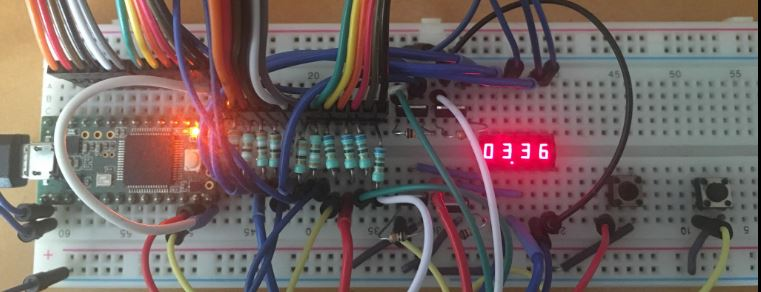
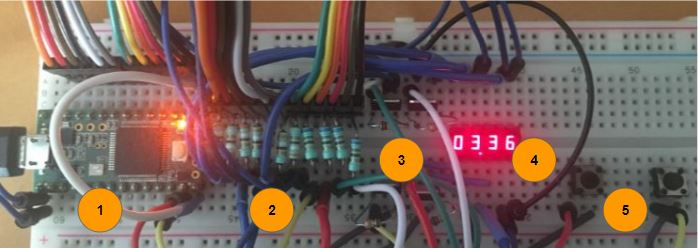
Updated readme

diff --git a/README.MD b/README.MD
@@ -11,7 +11,7 @@ The following minimum features are required:
 - A bubble display that shows elapsed time in increments of 1/100 s (10 ms).
 
 The following conditions must be satisfied:
-- Timer precision, 10 ms (1/100 s) max deviation within a 10 s timespan.
+- Timer precision, 10 ms (1/100 s) max deviation within a 10 s timespan. For this requirement to be satisfied with 4 available digit slots on the bubble display, the maximum time elapsed to be displayed is 99.99 s.
 - Proof of button debouncing functionality.
 - No delay() function used.
 - Use of external interrupts.
@@ -25,31 +25,117 @@ The bubble display stop watch circuit schematic is shown below:
 
 ![Bubble display stop watch circuit schematic.](media/circuit_schematic.jpg)
 
+The Teensy 3.2's digital pins are noted to have an output of 3.3 V and 10 mA (PJRC, n.d.).
 
 A brief explanation of the circuit design follows:
 - The momentary push buttons (Start/Stop and Reset) activate softare interrupts by pulling microcontroller pins 10 and 11 to ground. These pins are internally pulled up to prevent them from floating.
-- Resistors R1 to R8 limit the current drawn through each of the 8 anode display segments on the bubble display, protecting the microcontroller.
-- Microntroller pins 16 to 23 drive which anode segment lights up on the QDSP-6064 bubble display (A to DP). These pins determine what number is displayed.
+- Resistors R1 to R8 limit the current drawn through each of the 8 anode display segments on the bubble display. Each anode segment has a max average current of 5 mA, with a typical voltage drop of 1.6 V.
+>(3.3 V- 1.6 V) / 390 ohms = 4.36 mA, satisfying the Teensy's 10 mA and bubble display's 5 mA current limit.
+- Microntroller pins 16 to 23 drive which anode segment lights up on the QDSP-6064 bubble display (A to DP). These pins determine what number is displayed. A bubble display pinout guide is illustrated below (Malinowo, 2015):
+![Bubble display pinout.](media/bubble_display_pinout.jpg)
+
 - Microcontroller pins 12 to 15 drive enhancement LU8743 N-FETS Q1 to Q4 to activate the 4 bubble digit display slots sequentially. This is achieved by sending a voltage to the gate of the N-FET, causing the the N-FET to conduct current from the corresponding digit slot's common cathode. This completes the circuit with the anode segments by sinking the current to ground, displaying a number at a particular digit slot.
-- N-FETS are utilized to protect excessive current sinking on the microcontroller, which can be the case when all anode segments are high (such as for the number '8.'). Each anode segment draws about 5 mA - having all 8 activated will require a current of 40 mA to be sunk which cannot be accomodated by the microcontroller.
-- Resistors R9 to R12 lmit the current drawn from microcontroller pins 12 to 15 as voltage builds up on the N-FET gate.
+>The N-FET gates' voltages are determined by the voltage divider network formed by the 660 ohm (R9 to R12) and 10k ohm (R13 to R16) resistors. The N-FET has a forward diode voltage drop of 1 V and typical gate threshold voltage of 1.9 V (International Rectifier, n.d.). The gate voltage is determined to be:
+(10k ohm * (3.3 V - 1 V)) /(10k ohm + 660 ohm) = 2.06 V. Just slightly above the typical threshold value and less than the maximum value of 2.35 V (International Rectifier, n.d.).
+- N-FETS are utilized to protect excessive current sinking into the microcontroller by sinking current into ground. Such is the case when all anode segments are high (such as for the number '8.'). Each anode segment draws about 5 mA (Hewlett Packard, n.d.) - having all 8 activated will require a current of 40 mA to be sunk which cannot be accomodated by the microcontroller.
+- Resistors R9 to R12 also limit the current drawn from microcontroller pins 12 to 15 as voltage builds up on the N-FET gate.
 - Resistors R13 to R16 ensures that the N-FET stops conducting to ground as soon as its corresponding microcontroller gate pin goes low. The resistor provides a path through which the voltage built up on the gate can be dissipated, shutting off the N-FET. A relatively high resistor value is needed to divert current from the microcontroller pin away from ground and towards the gate when a pin goes high.
--
 
-
+Pictured below is the actual circuit implemented on a breadboard:
+![Bubble display overview.](media/bubble_display_overview.jpg)
+1. Teensy 3.2 microcontroller development board, connected to laptop via USB
+2. Resistor bank
+3. Enchancement N-FETS, with gate to drain resistors
+4. Bubble display
+5. Reset and start/stop button
 
 ## Program Design
 
 The stop watch program is composed of 3 core activities:
-- 4 Digit Number Display
-- Time Tracking
-- Time Start/Stop and Reset 
-
-### 4 Digit Number Display
+- Displaying a four digit number
+- Tracking elapsed time
+- Interrupt driven timer start/stop and reset buttons, with debouncing
 
 
+All other general notes pertaining to program design are included as comments in the source code.
 
-|Number          |Active Segments                |
+### Displaying a four digit number
+
+A function called 'bubble_print()' was written to display a four digit number on the bubble display. With the display time resolution requirement of 1/100 s (equivalent to 10 ms), the display could accommodate a time period of 99.99 s.
+
+1. The 'bubble_print()' function receives an integer as an argument:
+```c
+void bubble_print(uint16_t number_to_print)
+```
+2. The function decomposes the 4 least significant digits of 'number_to_print' into four individual digits assigned to separate variables. The modulo operator is used to achieve this (StackExchange, n.d.):
+
+```c
+number_to_print_4th_digit = (number_to_print / 1) % 10;
+number_to_print_3rd_digit = (number_to_print / 10) % 10;
+number_to_print_2nd_digit = (number_to_print / 100) % 10;
+number_to_print_1st_digit = (number_to_print / 1000) % 10;
+```
+
+3. The common cathode pin 'CC4' for the 4th or least significant digit on the bubble display is set HIGH first while all the other common cathodes are deactivated. This number is displayed first as it changes the fastest, being the least significant digit. Note as well that variable 'digit_to_print' is assigned to the 4th individual digit of the previous decomposition process.
+
+```c
+case 4:
+      digitalWrite(CC1, LOW);
+      digitalWrite(CC2, LOW);
+      digitalWrite(CC3, LOW);
+      digitalWrite(CC4, HIGH);
+      asdp_flag = LOW;
+      digit_to_print = number_to_print_4th_digit;
+      break;
+```
+4. With the correct digit assigned to 'digit_to_print' and the correct common cathode set to HIGH, the anode segments corresponding to the digit to be printed is now set to HIGH. This is implemented using a switch-case structure and state flags, as seen for example the number '2' below:
+```c
+switch (digit_to_print)
+    {
+...
+    case 2:
+
+      asa_flag = HIGH;
+      asb_flag = HIGH;
+      asc_flag = LOW;
+      asd_flag = HIGH;
+      ase_flag = HIGH;
+      asf_flag = LOW;
+      asg_flag = HIGH;
+
+      break;
+...
+    }
+
+```
+5. With the correct anode segment flags enabled, their states can now be used to actually power up the appropriate anode segments:
+```c
+ digitalWrite(ASA, asa_flag);
+ digitalWrite(ASB, asb_flag);
+ digitalWrite(ASC, asc_flag);
+ digitalWrite(ASD, asd_flag);
+ digitalWrite(ASE, ase_flag);
+ digitalWrite(ASF, asf_flag);
+ digitalWrite(ASG, asg_flag);
+ digitalWrite(ASDP, asdp_flag);
+```
+6. Steps 3 to 5 are all contained within the for loop block below. This repeats steps 3 to 5 order to display the appropriate number for each digit slot with the end result of displaying a fully constructed 4 digit number.
+```c
+for (uint8_t digit_slot_number = 4; digit_slot_number >= 1; digit_slot_number--) {
+...
+}
+```
+7. Each digit segment display's common cathode is set HIGH for a period of time. The duration is determined by a configuration constant 'DIGIT_DISPLAY_DELAY_US' in the blank while function below. This is also contained within the for loop block discussed above. A value on microseconds for 'DIGIT_DISPLAY_DELAY_US' was selected such that flicker will not be apparent.
+```c
+while (micros() % DIGIT_DISPLAY_DELAY_US > 0) 
+    {
+    }
+```
+>Time elapsed tracking is built around the 'millis()' function. This function continuously runs in the background. As proven later in the results section, the use of the while loop above does not affect the precision of time elapsed tracking - the case being avoided by not using the 'delay()' function which is a blocking function.
+
+The table below summarizes the active anode segments for each number:
+
+|Number          |Active Anode Segments                |
 |----------------|-------------------------------|
 |0|abcdef   |
 |1|bc       |
@@ -61,6 +147,124 @@ The stop watch program is composed of 3 core activities:
 |7|abc      |
 |8|afbgecd  |
 |9|afbgc    |
+>Anode segment 'dp' which represent a decimal point is perpetually HIGH for digit slot 2 (ones seconds digit) - this allows time elapsed in seconds to be shown in the format 99.99 s.
+
+### Tracking elapsed time
+Tracking elapsed time is built around the standard 'millis()' function included in the standard Arduino library. The variable below are locally declared in the main 'loop()' function of the program:
+```c
+static unsigned long elapsed_time_ms = 0;              
+static unsigned long time_restart_compensation_ms = 0; 
+static unsigned long time_reset_compensation_ms = 0;   
+static unsigned long elapsed_time_at_stop_ms = 0;      
+```
+
+The variable type 'unsigned long' was selected as recommended on the official Arduino website. This is to avoid potential logic errors during operation, as the millis() function returns a value of type 'unsigned long' which may cause problems when interacting with variable of type 'int' (Arduino, n.d.).
+
+The elapsed time in 10's of milliseconds (1/100 s) is calculated by the expression below:
+```c
+elapsed_time_ms = (millis() / 10) - time_restart_compensation_ms - time_reset_compensation_ms;
+```
+'millis()' is divided by 10 in order to convert it to 1/100 of a second (10's of milliseconds). This term itself is enough to reliably display elapsed time in seconds to up to 2 decimal places. 
+
+'elapsed_time_ms' then becomes the argument sent to the 'bubble_print()' function in order to display the current elapsed time.
+
+>As discussed earlier, the 'bubble_print()' function displays only the 4 least significant digits sent to it. This means that every time 'millis() / 10' exceeds 99999 ms, the display would just revert back to 00.00 s and proceed as normal - effectively rolling over the timer.
+
+The variables 'time_restart_compensation_ms' and 'time_reset_compensation_ms' adjust the value of 'elapsed_time_ms' when restarting the stop watch from stop or when resetting the stop watch back to 00.00 s respectively. The calculations made in determining these two compensation variables will be discussed in the following sub-section.
+
+### Interrupt driven timer start/stop and reset buttons, with debouncing
+The interrupt service routines 'ISR_start_stop_press()' and 'ISR_reset_press()' handle the starting/stopping and resetting of the stop watch respectively. These routines are activated by pushing two buttons on the circuit.
+
+'ISR_start_stop_press()' controls the state of the 'stopped_state flag' which by default is set to false. This is a toggling type function, alternating the 'stopped_state_flag' between false and true everytime it is called.
+
+```c
+
+void ISR_start_stop_press() 
+{
+
+ ...
+    if (stopped_state_flag == false)
+    {
+      stopped_state_flag = true; //Set flag to true to indicate a stop stop watch request.
+    }
+    else if (stopped_state_flag == true)
+    {
+      stopped_state_flag = false; //Set flag to false to indicate a start stop watch request.
+    }
+...
+}
+
+```
+
+The 'stopped_state_flag' variable is then tested in the main loop code to determine whether the timer display should be running, or stopped at the time duration when the start/stop button was pressed.
+
+```c
+//If-Then block handling start/stop functionality.
+  if (stopped_state_flag == false)
+  {
+    
+    bubble_print(elapsed_time_ms);
+    elapsed_time_at_stop_ms = elapsed_time_ms;
+  }
+
+  else if (stopped_state_flag == true)
+  {
+
+    time_restart_compensation_ms = (millis() / 10) - elapsed_time_at_stop_ms - time_reset_compensation_ms;
+    bubble_print(elapsed_time_at_stop_ms);
+    
+    
+  }
+```
+If 'stopped_state_flag' is false, the elapsed time is displayed as normal. A variable 'elapsed_time_at_stop_ms' is updated so that the timer restarts from the correct elapsed time when starting from a stopped state.
+
+>In the context of this report, 'restarting' means starting the timer once again from the point at which it was stopped. 'Resetting' refered to the act of resetting the time back to 00.00 s.
+
+If 'stopped_state_flag' is true, the variable 'elapsed_time_at_stop_ms' is printed to the bubble display, which is now isolated from the continuously running 'millis()' function.
+
+To ensure that the timer restarts from the correct point in time, the 'time_restart_compensation_ms' variable is calculated and is subtracted from the 'elapsed_time_ms' variable from in all following iterations of the main program loop.
+
+'ISR_reset_press()' controls the state of the 'reset_requested_flag' which by default is set to false. The 'reset_requested_flag' variable is then tested in the main program loop as seen below:
+
+```c
+//If-Then block handling time reset functionality.
+  if (reset_requested_flag == false)
+  {
+
+    elapsed_time_ms = (millis() / 10) - time_restart_compensation_ms - time_reset_compensation_ms;
+  }
+
+  else if (reset_requested_flag == true)
+  {
+
+    time_reset_compensation_ms = millis() / 10;
+    time_reset_compensation_ms = 0;
+    elapsed_time_at_stop_ms = 0;
+    reset_requested_flag = false;
+  }
+```
+If 'reset_requested_flag' is false, 'elapsed_time_ms' then just becomes a function of 'millis()' with the subtraction of the current 'time_restart_compensation_ms' and 'time_reset_compensation_ms' value.
+
+When 'reset_requested_flag' becomes true, the value of 'time_reset_compensation_ms' is updated to the current 'millis()' value divided by 10. This effectively removes the stored 'millis()' value in 'elapsed_time_ms' bringing it back down to 00.00 s even though 'millis()' is not actually equal to 00.00 s. 'time_reset_compensation_ms' and 'elapsed_time_at_stop_ms' are then reset to 0 as well to ensure that the start/stop functionality remains operational.
+
+Debouncing of input buttons was also implemented to prevent unintended multiple start/stop or reset requests. This was achieved by having a brief window of time where button presses are ignored, controlled by the configuration constant 'DEBOUNCE_DELAY_MS'.
+
+```c
+if ((current_press_time_ms - previous_press_time_ms) > DEBOUNCE_DELAY_MS) //Code segment that handles a reset timer request, with button debounce.
+  {
+
+    reset_requested_flag = true;
+    previous_press_time_ms = current_press_time_ms; //Updates previous time to facilitate correct debounce timing.
+  }
+```
+
+The functions are attached to an external interrupt in the code below:
+```c
+attachInterrupt(START_STOP_BUTTON_PIN, ISR_start_stop_press, RISING);
+attachInterrupt(RESET_BUTTON_PIN, ISR_reset_press, FALLING);
+```
+
+'RISING' is utilized for 'ISR_start_stop_press' to ensure that the timer stops immediately when requested. 'ISR_reset_press' does not have to be activated precisely when it is requested so is left in 'FALLING' mode.
 
 # RESULTS
 
@@ -100,17 +304,19 @@ The code was altered to force the stop watch to stop when the millis() function 
 
 The millis() function value was printed serially in milliseconds:
 
-
 ![Serially printed millis() function value.](media/serially_printed_millis_value.jpg)
-
 
 Comparing this to the time in seconds displayed on the bubble display:
 
-
 ![Bubble display time.](media/bubble_display_time.jpg)
 
+## Proof of button debouncing functionality.
 
 
+
+- No delay() function used.
+- Use of external interrupts.
+- Use of MOSFETS to compensate for the microcontroller's limited current source and sink capability.
 # DISCUSSION AND CONCLUSION
 
 We see that a deviation of no more 10 ms within a 10 seconds timespan was achieved as required. The testing method employed was more precise than the simpler approach of using another external stop watch as a reference. This is because it is virtualy impossible to stop the bubble display stop watch and an external reference stop watch at exactly the same time.
@@ -120,3 +326,10 @@ We see that a deviation of no more 10 ms within a 10 seconds timespan was achiev
 https://arduino.stackexchange.com/questions/28092/how-do-i-split-a-number-into-individual-digits
 
 
+# RELEVANT DATA SHEETS
+
+MOSFET https://www.infineon.com/dgdl/irlr8743pbf.pdf?fileId=5546d462533600a4015356719c7e26ff
+
+TEENSY 3.2 https://www.pjrc.com/teensy/techspecs.html
+
+QDSP 6040 Bubble Display https://cdn.sparkfun.com/datasheets/Components/LED/BB_QDSP_DS.pdf
